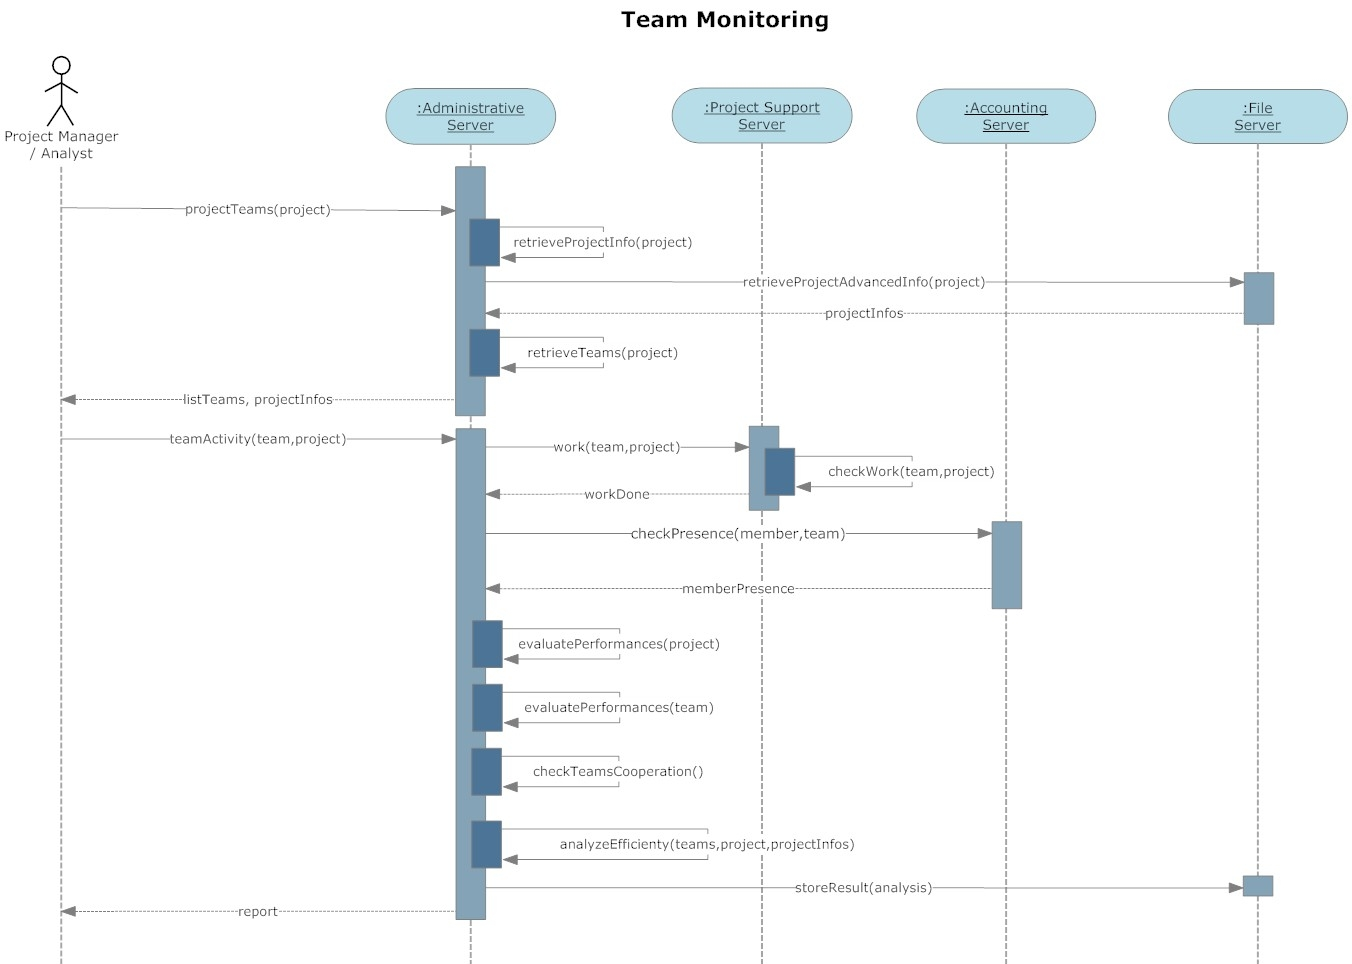
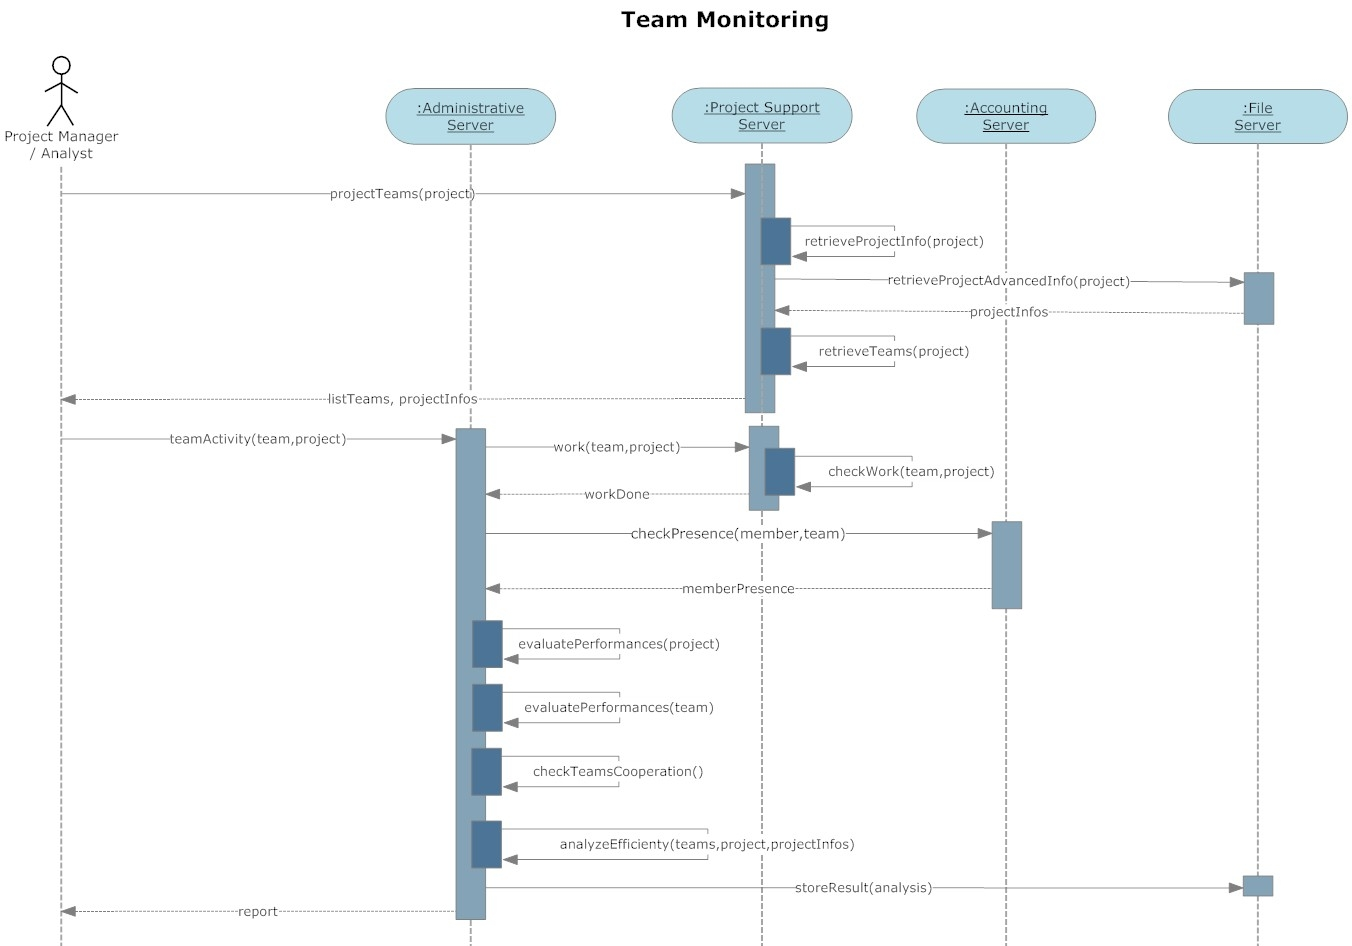
team_working.jpg changed, Sequence diagram completed: Administrative, Commercial, Project

diff --git a/ois_prj/assign3/sections/Project.tex b/ois_prj/assign3/sections/Project.tex
@@ -15,6 +15,7 @@ As each important action in the Company, the proposal should be approved by the 
 
 
 \subsection{Checking work}
+\label{subsec:checking}
 The checking work activity figured in \ref{3img:[sequence]checking} aims to monitor the project status with respect the foreseen scheduling. Once the information are retrieved by the Analyst, a ``case-study`` session with the Project Manager may reveals some problem on Project conducting. With high probability some settlement changes are needed to improve the efficiency in the project lifecycle or to front some unforseen events.
 
 Once the CEO is knowing the status and the changes proposed, the Analyst provide to address the correct directives to the running project.
@@ -27,7 +28,10 @@ Once the CEO is knowing the status and the changes proposed, the Analyst provide
 \end{centering}
 \end{figure}
 
+
 \subsection{Team monitoring}
+The Team monitoring process is used also in \ref{subsec:checking} in order to obtain a ''shot`` of the current teams' work in the status of the project. Through several elaboration calculated ''ad-hoc`` based on objective and relative parameters, is possible to compare the teams efficiency with respect the project lifecycle and thanks to them acquire interesting informations that will be stored to be used in future.
+
 \begin{figure}[H]
 \begin{centering}
 \includegraphics[scale=0.40,angle=90]{assign3/sdraw/imgs/team_monitoring.jpg}

diff --git a/ois_prj/assign3/sections/Commercial.tex b/ois_prj/assign3/sections/Commercial.tex
@@ -1,4 +1,6 @@
 \subsection{Campaign planning}
+In order to provide efficient marketing campaign, the sequence diagram in figure \ref{3img:[sequence]campaign_planning} describe a series of steps which completely realize the objective. In particular is important to recognize the campaign's target assuming preious market's work done, with corresponding feedback gatherd, and the project features. The authorization on CEO is required to perform the business transaction.
+
 \begin{figure}[H]
 \begin{centering}
 \includegraphics[scale=0.35,angle=90]{assign3/sdraw/imgs/campaign_planning.jpg}
